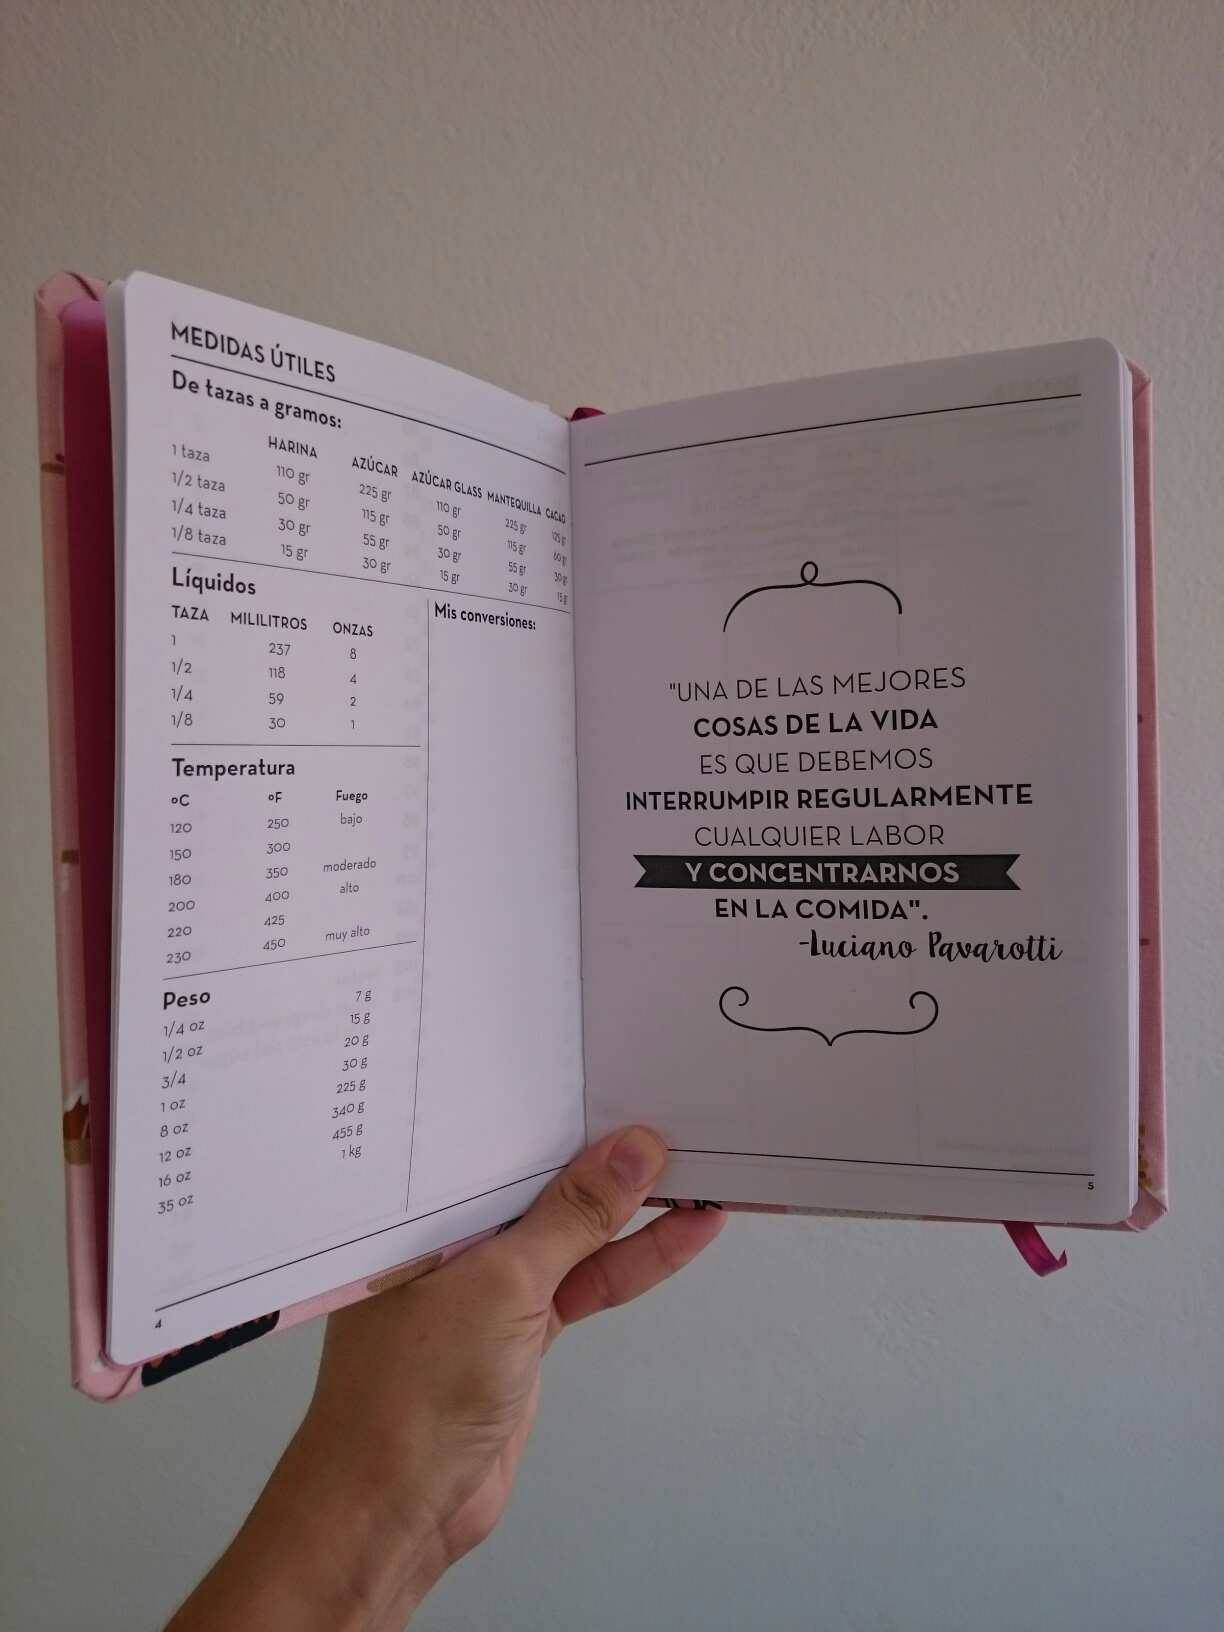
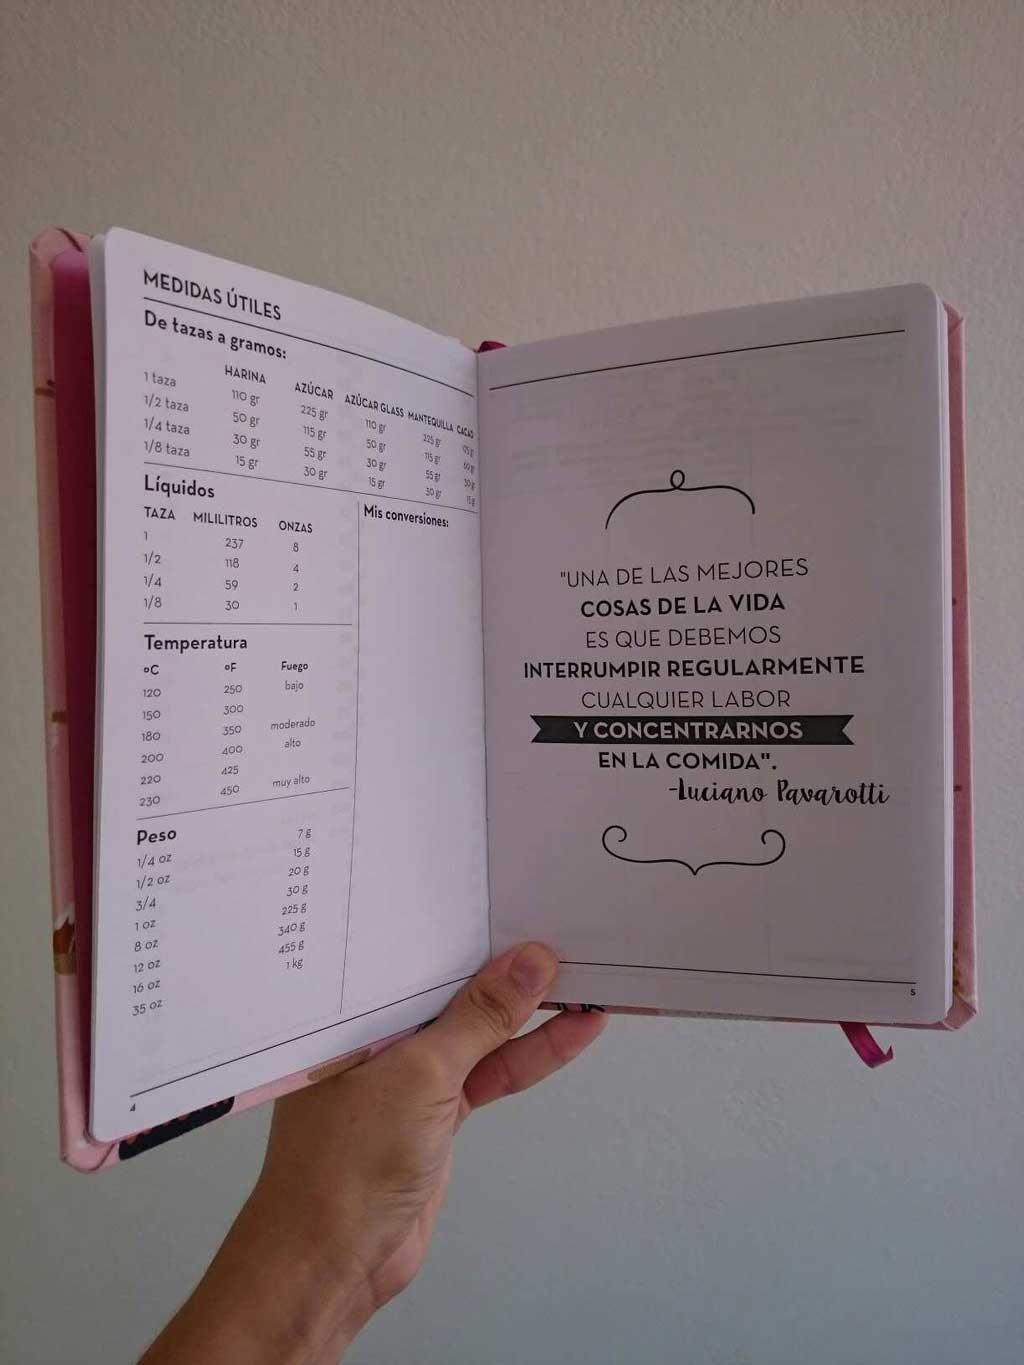
opctimizando imagenes

diff --git a/index.html b/index.html
@@ -119,7 +119,7 @@
           <a href=""><p class="products-info">+ info</p></a>
         </div>
         <div class="col m2 offset-m1 s8 offset-s2">
-          <img class="circle responsive-img products-img" src="assets/images/recetario.png" alt="">
+          <img class="circle responsive-img products-img" src="assets/images/recetario.jpg" alt="">
           <h4 class="products-name">Recetario</h4>
           <p>Imprescindible en la cocina.</p>
           <a href=""><img src="assets/images/cart.png" alt="" class="products-shop"></a>
@@ -135,14 +135,14 @@
           <a href=""><p class="products-info">+ info</p></a>
         </div>
         <div class="col m2 offset-m1 s8 offset-s2">
-          <img class="circle responsive-img products-img" src="assets/images/insumosDeEncuadernación.jpg" alt="">
+          <img class="circle responsive-img products-img" src="assets/images/insumosDeEncuadernacion.jpg" alt="">
           <h4 class="products-name">Insumos de encuadernación</h4>
           <p>Para colegas.</p>
           <a href=""><img src="assets/images/cart.png" alt="" class="products-shop"></a>
           <a href=""><p class="products-info">+ info</p></a>
         </div>
         <div class="col m2 offset-m1 s8 offset-s2">
-          <img class="circle responsive-img products-img" src="assets/images/proyectosEspeciales2.jpg" alt="">
+          <img class="circle responsive-img products-img" src="assets/images/proyectos-especiales2.jpg" alt="">
           <h4 class="products-name">Proyectos especiales</h4>
           <a href=""><img src="assets/images/cart.png" alt="" class="products-shop"></a>
           <a href=""><p class="products-info">+ info</p></a>
@@ -164,7 +164,7 @@
       </div>
       <div class="row center-align">
         <div class="col s12 m6 offset-m3">
-          <img class="responsive-img "src="assets/images/flujoFoliette.png" alt="">
+          <img class="responsive-img "src="assets/images/flujoFoliette.jpg" alt="">
         </div>
         <div class="col s12 m7"></div>
       </div>
